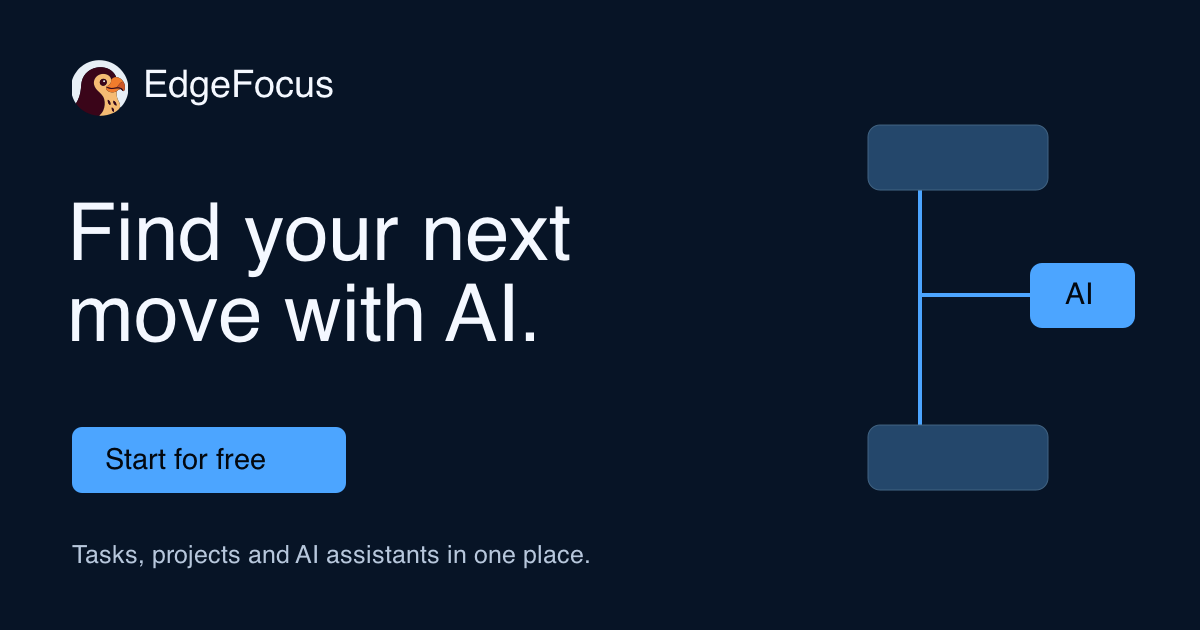
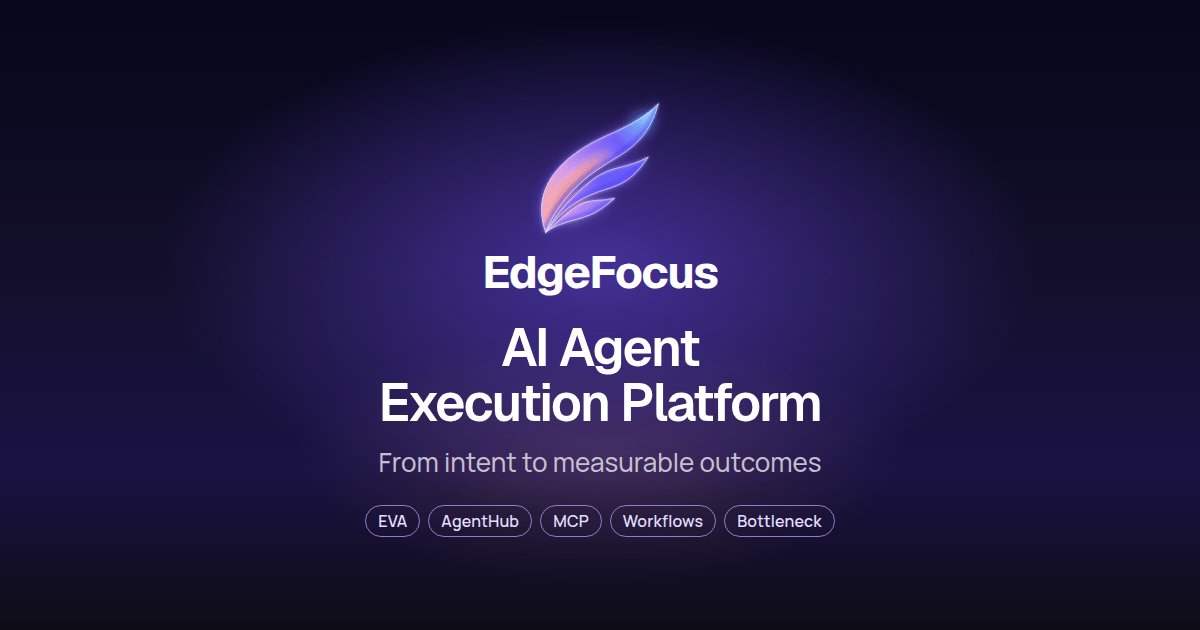
Align the landing with the Aurora Wing mark and live positioning. (#1)
The homepage title, description, and hero now match the app, including the Russian lines. Favicons, the header mark, and the 1200x630 link image use the approved set, with absolute Open Graph and Twitter tags.

diff --git a/translations.js b/translations.js
@@ -7,11 +7,12 @@ window.EDGEFOCUS_COPY = {
     "navFaq": "Questions",
     "login": "Log in",
     "signup": "Start for free",
-    "metaTitle": "EdgeFocus — A clear next move, with AI",
-    "metaDescription": "Bring your tasks, projects and AI assistants together. Organize with Falco, ask EVA and find what is blocking progress. Start with the Free plan.",
+    "metaTitle": "EdgeFocus: AI Agent Execution Platform for Teams",
+    "metaDescription": "Connect AI agents to your tasks, CRM and workflows via MCP. EVA, automation and bottleneck analysis turn intent into measurable outcomes.",
+    "ogImageAlt": "EdgeFocus Aurora Wing. AI Agent Execution Platform. From intent to measurable outcomes.",
     "heroAudience": "For founders, team leads and independent work",
-    "heroTitle": "Find your next move with AI.",
-    "heroDescription": "Your tasks, projects and AI assistants in one place. Let Falco help organize the incoming work, ask EVA about your priorities, and see what is blocking progress.",
+    "heroTitle": "From intent to measurable outcomes",
+    "heroDescription": "Connect AI agents to your tasks, CRM and workflows via MCP. EVA, automation and bottleneck analysis turn intent into measurable outcomes.",
     "heroSecondary": "See how it works",
     "heroNote": "Free plan · No card required to register",
     "heroRetro": "Take a trip to 1998 →",
@@ -110,11 +111,12 @@ window.EDGEFOCUS_COPY = {
     "navFaq": "Вопросы",
     "login": "Войти",
     "signup": "Начать бесплатно",
-    "metaTitle": "EdgeFocus — Ясный следующий шаг с AI",
-    "metaDescription": "Соберите задачи, проекты и AI-помощников в одном месте. Разбирайте входящие с Falco, задавайте вопросы EVA и находите, что мешает результату. Начните с тарифа Free.",
+    "metaTitle": "EdgeFocus: платформа исполнения для ИИ-агентов и команд",
+    "metaDescription": "Подключите ИИ-агентов к задачам, CRM и процессам через MCP. EVA, автоматизация и поиск узкого места превращают намерение в измеримый результат.",
+    "ogImageAlt": "EdgeFocus, Aurora Wing. Платформа исполнения для ИИ-агентов. От намерения к измеримому результату.",
     "heroAudience": "Для предпринимателей, руководителей и самостоятельной работы",
-    "heroTitle": "Найдите следующий шаг с AI.",
-    "heroDescription": "Задачи, проекты и AI-помощники в одном месте. Разбирайте входящие с Falco, задавайте EVA вопросы о приоритетах и находите то, что мешает двигаться дальше.",
+    "heroTitle": "От намерения к измеримому результату",
+    "heroDescription": "Подключите ИИ-агентов к задачам, CRM и процессам через MCP. EVA, автоматизация и поиск узкого места превращают намерение в измеримый результат.",
     "heroSecondary": "Посмотреть, как работает",
     "heroNote": "Тариф Free · Для регистрации карта не нужна",
     "heroRetro": "Заглянуть в 1998-й →",
@@ -128,7 +130,7 @@ window.EDGEFOCUS_COPY = {
     "demoItem3": "Согласовать предложение",
     "demoCount": "Три задачи. Одна зависимость.",
     "demoPrompt": "EVA, что мешает запуску?",
-    "demoAnswer": "Предложение нужно согласовать до публикации сайта и запуска кампании. Первый шаг — получить это решение.",
+    "demoAnswer": "Предложение нужно согласовать до публикации сайта и запуска кампании. Первый шаг: получить это решение.",
     "demoNextLabel": "Следующий шаг",
     "demoNext": "Отправить предложение на согласование",
     "demoBlocked": "Ждёт согласования",
@@ -165,7 +167,7 @@ window.EDGEFOCUS_COPY = {
     "proPrice": "790 ₽",
     "proPeriod": "в месяц",
     "proBody": "Для регулярной работы с AI-помощниками.",
-    "proDetail": "Платные тарифы дают больше лимитов AI. Выбор тарифа — в приложении.",
+    "proDetail": "Платные тарифы дают больше лимитов AI. Выбор тарифа в приложении.",
     "proAction": "Сравнить тарифы в приложении",
     "pricingNote": "Указана помесячная стоимость. Другие тарифы и годовая оплата доступны в приложении.",
     "teamTitle": "Работаете командой?",
@@ -177,7 +179,7 @@ window.EDGEFOCUS_COPY = {
     "faq2q": "Нужно сразу переносить все дела?",
     "faq2a": "Нет. Начните с одного проекта и нескольких реальных задач. Добавляйте остальное, когда поймёте, что подход вам подходит.",
     "faq3q": "Что умеют AI-помощники?",
-    "faq3a": "Falco помогает разбирать входящие. EVA — анализировать и обсуждать контекст рабочего пространства. Использование AI ограничено тарифом; проверяйте предложения перед применением.",
+    "faq3a": "Falco помогает разбирать входящие. EVA помогает анализировать и обсуждать контекст рабочего пространства. Использование AI ограничено тарифом; проверяйте предложения перед применением.",
     "faq4q": "Можно подключить свои инструменты?",
     "faq4a": "В EdgeFocus есть REST API и API-навык для AI-помощников. Вы настраиваете доступ для выбранных инструментов.",
     "faq5q": "Где узнать об обработке данных?",
@@ -213,11 +215,12 @@ window.EDGEFOCUS_COPY = {
     "navFaq": "الأسئلة",
     "login": "تسجيل الدخول",
     "signup": "ابدأ مجانًا",
-    "metaTitle": "EdgeFocus — خطوة تالية واضحة بمساعدة الذكاء الاصطناعي",
-    "metaDescription": "اجمع مهامك ومشاريعك ومساعدي الذكاء الاصطناعي في مكان واحد. نظّم العمل الوارد بمساعدة Falco، واسأل EVA، واكتشف ما يعوق التقدم. ابدأ بخطة Free.",
+    "metaTitle": "EdgeFocus: منصة تنفيذ وكلاء الذكاء الاصطناعي للفرق",
+    "metaDescription": "اربط وكلاء الذكاء الاصطناعي بمهامك وإدارة علاقات العملاء وسير العمل عبر MCP. تحوّل EVA والأتمتة وتحليل الاختناقات النية إلى نتائج قابلة للقياس.",
+    "ogImageAlt": "EdgeFocus، جناح أورورا. منصة تنفيذ وكلاء الذكاء الاصطناعي. من النية إلى نتائج قابلة للقياس.",
     "heroAudience": "للمؤسسين وقادة الفرق ومن يعملون بشكل مستقل",
-    "heroTitle": "حدّد خطوتك التالية مع AI.",
-    "heroDescription": "مهامك ومشاريعك ومساعدو الذكاء الاصطناعي في مكان واحد. دع Falco يساعدك في تنظيم العمل الوارد، واسأل EVA عن أولوياتك، وتعرّف على ما يعوق التقدم.",
+    "heroTitle": "من النية إلى نتائج قابلة للقياس",
+    "heroDescription": "اربط وكلاء الذكاء الاصطناعي بمهامك وإدارة علاقات العملاء وسير العمل عبر MCP. تحوّل EVA والأتمتة وتحليل الاختناقات النية إلى نتائج قابلة للقياس.",
     "heroSecondary": "تعرّف على آلية العمل",
     "heroNote": "خطة Free · لا حاجة إلى بطاقة دفع للتسجيل",
     "heroRetro": "رحلة إلى عام 1998 ←",
@@ -316,11 +319,12 @@ window.EDGEFOCUS_COPY = {
     "navFaq": "常见问题",
     "login": "登录",
     "signup": "免费开始",
-    "metaTitle": "EdgeFocus — 借助 AI，明确下一步",
-    "metaDescription": "将任务、项目和 AI 助手汇聚在一处。借助 Falco 整理待处理事项，向 EVA 提问，找出阻碍进展的因素。从 Free 套餐开始。",
+    "metaTitle": "EdgeFocus: 面向团队的 AI 智能体执行平台",
+    "metaDescription": "通过 MCP 将 AI 智能体连接到任务、CRM 和工作流。EVA、自动化与瓶颈分析将意图转化为可衡量的结果。",
+    "ogImageAlt": "EdgeFocus Aurora Wing。AI 智能体执行平台。从意图到可衡量的结果。",
     "heroAudience": "适合创业者、团队负责人和独立工作者",
-    "heroTitle": "借助 AI，找到下一步。",
-    "heroDescription": "任务、项目和 AI 助手，尽在一处。让 Falco 帮你整理待处理事项，向 EVA 询问优先事项，找出阻碍进展的因素。",
+    "heroTitle": "从意图到可衡量的结果",
+    "heroDescription": "通过 MCP 将 AI 智能体连接到任务、CRM 和工作流。EVA、自动化与瓶颈分析将意图转化为可衡量的结果。",
     "heroSecondary": "了解工作方式",
     "heroNote": "Free 套餐 · 注册无需银行卡",
     "heroRetro": "穿越到 1998 年 →",

diff --git a/index.html b/index.html
@@ -2,8 +2,8 @@
 <html lang="en" dir="ltr">
 <head>
 <meta charset="utf-8"><meta name="viewport" content="width=device-width, initial-scale=1">
-<title data-i18n="metaTitle">EdgeFocus — A clear next move, with AI</title>
-<meta name="description" data-i18n-content="metaDescription" content="Bring your tasks, projects and AI assistants together. Organize with Falco, ask EVA and find what is blocking progress. Start with the Free plan.">
+<title data-i18n="metaTitle">EdgeFocus: AI Agent Execution Platform for Teams</title>
+<meta name="description" data-i18n-content="metaDescription" content="Connect AI agents to your tasks, CRM and workflows via MCP. EVA, automation and bottleneck analysis turn intent into measurable outcomes.">
 <meta name="theme-color" content="#071426"><meta name="referrer" content="strict-origin-when-cross-origin">
 <link rel="canonical" href="https://landing.edgefocus.ru/">
 <link rel="alternate" hreflang="en" href="https://landing.edgefocus.ru/">
@@ -11,15 +11,29 @@
 <link rel="alternate" hreflang="ar" href="https://landing.edgefocus.ru/?lang=ar">
 <link rel="alternate" hreflang="zh" href="https://landing.edgefocus.ru/?lang=zh">
 <link rel="alternate" hreflang="x-default" href="https://landing.edgefocus.ru/">
-<meta property="og:type" content="website"><meta property="og:url" content="https://landing.edgefocus.ru/">
-<meta property="og:title" data-i18n-content="metaTitle" content="EdgeFocus — A clear next move, with AI">
-<meta property="og:description" data-i18n-content="metaDescription" content="Bring your tasks, projects and AI assistants together. Organize with Falco, ask EVA and find what is blocking progress. Start with the Free plan.">
+<meta property="og:type" content="website"><meta property="og:site_name" content="EdgeFocus"><meta property="og:url" content="https://landing.edgefocus.ru/">
+<meta property="og:title" data-i18n-content="metaTitle" content="EdgeFocus: AI Agent Execution Platform for Teams">
+<meta property="og:description" data-i18n-content="metaDescription" content="Connect AI agents to your tasks, CRM and workflows via MCP. EVA, automation and bottleneck analysis turn intent into measurable outcomes.">
 <meta property="og:image" content="https://landing.edgefocus.ru/assets/social.png">
+<meta property="og:image:type" content="image/png">
+<meta property="og:image:width" content="1200"><meta property="og:image:height" content="630">
+<meta property="og:image:alt" data-i18n-content="ogImageAlt" content="EdgeFocus Aurora Wing. AI Agent Execution Platform. From intent to measurable outcomes.">
 <meta name="twitter:card" content="summary_large_image">
-<link rel="icon" type="image/svg+xml" href="assets/edge-logo.svg">
+<meta name="twitter:title" data-i18n-content="metaTitle" content="EdgeFocus: AI Agent Execution Platform for Teams">
+<meta name="twitter:description" data-i18n-content="metaDescription" content="Connect AI agents to your tasks, CRM and workflows via MCP. EVA, automation and bottleneck analysis turn intent into measurable outcomes.">
+<meta name="twitter:image" content="https://landing.edgefocus.ru/assets/social.png">
+<meta name="twitter:image:alt" data-i18n-content="ogImageAlt" content="EdgeFocus Aurora Wing. AI Agent Execution Platform. From intent to measurable outcomes.">
+<link rel="icon" href="assets/favicon.svg" type="image/svg+xml">
+<link rel="icon" href="assets/icons/favicon-32x32.png" sizes="32x32" type="image/png">
+<link rel="icon" href="assets/icons/favicon-16x16.png" sizes="16x16" type="image/png">
+<link rel="alternate icon" href="favicon.ico" sizes="16x16 32x32 48x48">
+<link rel="apple-touch-icon" href="assets/icons/apple-touch-icon-180x180.png">
+<link rel="mask-icon" href="assets/icons/safari-pinned-tab.svg" color="#6E4CF2">
+<meta name="msapplication-TileImage" content="assets/icons/mstile-150x150.png">
+<meta name="msapplication-TileColor" content="#0B0B10">
 <link rel="preload" href="assets/fonts/geist-latin.woff2" as="font" type="font/woff2" crossorigin>
 <link rel="stylesheet" href="locale-fonts.css"><link rel="stylesheet" href="styles.css?v=retro-20261021">
-<script defer src="translations.js?v=portfolio-20261110"></script><script defer src="script.js?v=portfolio-20261110"></script><script defer src="analytics.js"></script><script defer src="funnel.js"></script>
+<script defer src="translations.js?v=aurora-20261126"></script><script defer src="script.js?v=portfolio-20261110"></script><script defer src="analytics.js"></script><script defer src="funnel.js"></script>
 </head>
 <body id="top">
 <a class="skip-link" href="#main" data-i18n="skip">Skip to content</a>
@@ -27,7 +41,7 @@
 <nav class="desktop-nav" aria-label="Main"><a href="#how-it-works"><span data-i18n="navHow">How it works</span></a><a href="#new"><span data-i18n="navLaunch">EVA, integrations and partners</span></a><a href="#pricing"><span data-i18n="navPlans">Plans</span></a><a href="#faq"><span data-i18n="navFaq">Questions</span></a></nav>
 <div class="header-actions"><label class="sr-only" for="language-select" data-i18n="languageLabel">Language</label><select id="language-select" aria-label="Language" data-i18n-aria="languageLabel"><option value="en">EN</option><option value="ru">RU</option><option value="ar">العربية</option><option value="zh">中文</option></select><a class="login-link" href="https://edgefocus.ru/login" data-cta="login" data-location="nav"><span data-i18n="login">Log in</span></a><a class="button button-primary" href="https://edgefocus.ru/register" data-cta="signup" data-location="nav"><span data-i18n="signup">Start for free</span></a></div></div></header>
 <main id="main">
-<section class="hero"><div class="container hero-grid"><div class="hero-copy"><p class="audience" data-i18n="heroAudience">For founders, team leads and independent work</p><h1 data-i18n="heroTitle">Find your next move with AI.</h1><p class="hero-description" data-i18n="heroDescription">Your tasks, projects and AI assistants in one place. Let Falco help organize the incoming work, ask EVA about your priorities, and see what is blocking progress.</p><div class="hero-actions"><a class="button button-primary" href="https://edgefocus.ru/register" data-cta="signup" data-location="hero"><span data-i18n="signup">Start for free</span></a><a class="button button-secondary" href="#demo" data-cta="demo" data-location="hero"><span data-i18n="heroSecondary">See how it works</span></a></div><p class="signup-note" data-i18n="heroNote">Free plan · No card required to register</p><a class="retro-discovery" data-retro-discovery href="/retro/?utm_source=edgefocus&amp;utm_medium=website&amp;utm_campaign=edgefocus-retro-202610" data-i18n="heroRetro">Take a trip to 1998 →</a><p class="hero-first" data-i18n="heroFirst">Start with one real project. Add the rest when you need it.</p></div>
+<section class="hero"><div class="container hero-grid"><div class="hero-copy"><p class="audience" data-i18n="heroAudience">For founders, team leads and independent work</p><h1 data-i18n="heroTitle">From intent to measurable outcomes</h1><p class="hero-description" data-i18n="heroDescription">Connect AI agents to your tasks, CRM and workflows via MCP. EVA, automation and bottleneck analysis turn intent into measurable outcomes.</p><div class="hero-actions"><a class="button button-primary" href="https://edgefocus.ru/register" data-cta="signup" data-location="hero"><span data-i18n="signup">Start for free</span></a><a class="button button-secondary" href="#demo" data-cta="demo" data-location="hero"><span data-i18n="heroSecondary">See how it works</span></a></div><p class="signup-note" data-i18n="heroNote">Free plan · No card required to register</p><a class="retro-discovery" data-retro-discovery href="/retro/?utm_source=edgefocus&amp;utm_medium=website&amp;utm_campaign=edgefocus-retro-202610" data-i18n="heroRetro">Take a trip to 1998 →</a><p class="hero-first" data-i18n="heroFirst">Start with one real project. Add the rest when you need it.</p></div>
 <div class="demo-shell" id="demo"><div class="demo-heading"><span class="demo-live-dot" aria-hidden="true"></span><span data-i18n="demoLabel">An example of the workflow</span><span class="demo-brand" aria-hidden="true">EdgeFocus</span></div><div class="demo-workspace">
 <div class="demo-project"><span class="project-icon" aria-hidden="true">↗</span><strong data-i18n="demoProject">Website launch</strong></div><h2 data-i18n="demoTitle">A launch is waiting. What comes first?</h2><div class="task-list"><div class="task-row"><span class="task-check" aria-hidden="true"></span><span data-i18n="demoItem1">Publish the website</span><span class="dependency-symbol" aria-hidden="true">↳</span></div><div class="task-row"><span class="task-check" aria-hidden="true"></span><span data-i18n="demoItem2">Start the campaign</span><span class="dependency-symbol" aria-hidden="true">↳</span></div><div class="task-row task-blocker"><span class="task-check" aria-hidden="true"></span><span data-i18n="demoItem3">Get the offer approved</span><span class="blocker-dot" aria-hidden="true"></span></div></div><p class="demo-count" data-i18n="demoCount">Three tasks. One dependency.</p>
 <div class="ai-answer"><div class="ai-avatar" aria-hidden="true">E</div><div><h3 data-i18n="demoPrompt">EVA, what is holding up the launch?</h3><p data-i18n="demoAnswer">The offer needs approval before the website and campaign can go live. Start by asking for that decision.</p></div></div><div class="next-move"><span class="next-label" data-i18n="demoNextLabel">Your next move</span><strong data-i18n="demoNext">Send the offer for approval</strong><span id="demo-status" class="status-badge" data-i18n="demoBlocked">Waiting for approval</span></div>

diff --git a/ru/partners/index.html b/ru/partners/index.html
@@ -16,9 +16,20 @@
 <meta property="og:url" content="https://landing.edgefocus.ru/ru/partners/">
 <meta property="og:locale" content="ru_RU">
 <meta property="og:image" content="https://landing.edgefocus.ru/assets/social.png">
-<meta property="og:image:alt" content="EdgeFocus">
+<meta property="og:image:type" content="image/png">
+<meta property="og:image:width" content="1200">
+<meta property="og:image:height" content="630">
+<meta property="og:image:alt" content="EdgeFocus, Aurora Wing. Платформа исполнения для ИИ-агентов. От намерения к измеримому результату.">
 <meta name="twitter:card" content="summary_large_image">
-<link rel="icon" href="/assets/edge-logo.svg" type="image/svg+xml">
+<meta name="twitter:image" content="https://landing.edgefocus.ru/assets/social.png">
+<link rel="icon" href="/assets/favicon.svg" type="image/svg+xml">
+<link rel="icon" href="/assets/icons/favicon-32x32.png" sizes="32x32" type="image/png">
+<link rel="icon" href="/assets/icons/favicon-16x16.png" sizes="16x16" type="image/png">
+<link rel="alternate icon" href="/favicon.ico" sizes="16x16 32x32 48x48">
+<link rel="apple-touch-icon" href="/assets/icons/apple-touch-icon-180x180.png">
+<link rel="mask-icon" href="/assets/icons/safari-pinned-tab.svg" color="#6E4CF2">
+<meta name="msapplication-TileImage" content="/assets/icons/mstile-150x150.png">
+<meta name="msapplication-TileColor" content="#0B0B10">
 <link rel="stylesheet" href="/launch.css">
 <link rel="stylesheet" href="/partners.css">
 <script src="/analytics.js" defer></script>

diff --git a/ru/developers/index.html b/ru/developers/index.html
@@ -16,9 +16,20 @@
 <meta property="og:url" content="https://landing.edgefocus.ru/ru/developers/">
 <meta property="og:locale" content="ru_RU">
 <meta property="og:image" content="https://landing.edgefocus.ru/assets/social.png">
-<meta property="og:image:alt" content="EdgeFocus">
+<meta property="og:image:type" content="image/png">
+<meta property="og:image:width" content="1200">
+<meta property="og:image:height" content="630">
+<meta property="og:image:alt" content="EdgeFocus, Aurora Wing. Платформа исполнения для ИИ-агентов. От намерения к измеримому результату.">
 <meta name="twitter:card" content="summary_large_image">
-<link rel="icon" href="/assets/edge-logo.svg" type="image/svg+xml">
+<meta name="twitter:image" content="https://landing.edgefocus.ru/assets/social.png">
+<link rel="icon" href="/assets/favicon.svg" type="image/svg+xml">
+<link rel="icon" href="/assets/icons/favicon-32x32.png" sizes="32x32" type="image/png">
+<link rel="icon" href="/assets/icons/favicon-16x16.png" sizes="16x16" type="image/png">
+<link rel="alternate icon" href="/favicon.ico" sizes="16x16 32x32 48x48">
+<link rel="apple-touch-icon" href="/assets/icons/apple-touch-icon-180x180.png">
+<link rel="mask-icon" href="/assets/icons/safari-pinned-tab.svg" color="#6E4CF2">
+<meta name="msapplication-TileImage" content="/assets/icons/mstile-150x150.png">
+<meta name="msapplication-TileColor" content="#0B0B10">
 <link rel="stylesheet" href="/launch.css">
 <script src="/analytics.js" defer></script>
 <script src="/funnel.js" defer></script>

diff --git a/ru/eva/index.html b/ru/eva/index.html
@@ -16,9 +16,20 @@
 <meta property="og:url" content="https://landing.edgefocus.ru/ru/eva/">
 <meta property="og:locale" content="ru_RU">
 <meta property="og:image" content="https://landing.edgefocus.ru/assets/social.png">
-<meta property="og:image:alt" content="EdgeFocus">
+<meta property="og:image:type" content="image/png">
+<meta property="og:image:width" content="1200">
+<meta property="og:image:height" content="630">
+<meta property="og:image:alt" content="EdgeFocus, Aurora Wing. Платформа исполнения для ИИ-агентов. От намерения к измеримому результату.">
 <meta name="twitter:card" content="summary_large_image">
-<link rel="icon" href="/assets/edge-logo.svg" type="image/svg+xml">
+<meta name="twitter:image" content="https://landing.edgefocus.ru/assets/social.png">
+<link rel="icon" href="/assets/favicon.svg" type="image/svg+xml">
+<link rel="icon" href="/assets/icons/favicon-32x32.png" sizes="32x32" type="image/png">
+<link rel="icon" href="/assets/icons/favicon-16x16.png" sizes="16x16" type="image/png">
+<link rel="alternate icon" href="/favicon.ico" sizes="16x16 32x32 48x48">
+<link rel="apple-touch-icon" href="/assets/icons/apple-touch-icon-180x180.png">
+<link rel="mask-icon" href="/assets/icons/safari-pinned-tab.svg" color="#6E4CF2">
+<meta name="msapplication-TileImage" content="/assets/icons/mstile-150x150.png">
+<meta name="msapplication-TileColor" content="#0B0B10">
 <link rel="stylesheet" href="/launch.css">
 <script src="/analytics.js" defer></script>
 <script src="/funnel.js" defer></script>

diff --git a/en/partners/index.html b/en/partners/index.html
@@ -16,9 +16,20 @@
 <meta property="og:url" content="https://landing.edgefocus.ru/en/partners/">
 <meta property="og:locale" content="en_US">
 <meta property="og:image" content="https://landing.edgefocus.ru/assets/social.png">
-<meta property="og:image:alt" content="EdgeFocus">
+<meta property="og:image:type" content="image/png">
+<meta property="og:image:width" content="1200">
+<meta property="og:image:height" content="630">
+<meta property="og:image:alt" content="EdgeFocus Aurora Wing. AI Agent Execution Platform. From intent to measurable outcomes.">
 <meta name="twitter:card" content="summary_large_image">
-<link rel="icon" href="/assets/edge-logo.svg" type="image/svg+xml">
+<meta name="twitter:image" content="https://landing.edgefocus.ru/assets/social.png">
+<link rel="icon" href="/assets/favicon.svg" type="image/svg+xml">
+<link rel="icon" href="/assets/icons/favicon-32x32.png" sizes="32x32" type="image/png">
+<link rel="icon" href="/assets/icons/favicon-16x16.png" sizes="16x16" type="image/png">
+<link rel="alternate icon" href="/favicon.ico" sizes="16x16 32x32 48x48">
+<link rel="apple-touch-icon" href="/assets/icons/apple-touch-icon-180x180.png">
+<link rel="mask-icon" href="/assets/icons/safari-pinned-tab.svg" color="#6E4CF2">
+<meta name="msapplication-TileImage" content="/assets/icons/mstile-150x150.png">
+<meta name="msapplication-TileColor" content="#0B0B10">
 <link rel="stylesheet" href="/launch.css">
 <link rel="stylesheet" href="/partners.css">
 <script src="/analytics.js" defer></script>

diff --git a/en/developers/index.html b/en/developers/index.html
@@ -16,9 +16,20 @@
 <meta property="og:url" content="https://landing.edgefocus.ru/en/developers/">
 <meta property="og:locale" content="en_US">
 <meta property="og:image" content="https://landing.edgefocus.ru/assets/social.png">
-<meta property="og:image:alt" content="EdgeFocus">
+<meta property="og:image:type" content="image/png">
+<meta property="og:image:width" content="1200">
+<meta property="og:image:height" content="630">
+<meta property="og:image:alt" content="EdgeFocus Aurora Wing. AI Agent Execution Platform. From intent to measurable outcomes.">
 <meta name="twitter:card" content="summary_large_image">
-<link rel="icon" href="/assets/edge-logo.svg" type="image/svg+xml">
+<meta name="twitter:image" content="https://landing.edgefocus.ru/assets/social.png">
+<link rel="icon" href="/assets/favicon.svg" type="image/svg+xml">
+<link rel="icon" href="/assets/icons/favicon-32x32.png" sizes="32x32" type="image/png">
+<link rel="icon" href="/assets/icons/favicon-16x16.png" sizes="16x16" type="image/png">
+<link rel="alternate icon" href="/favicon.ico" sizes="16x16 32x32 48x48">
+<link rel="apple-touch-icon" href="/assets/icons/apple-touch-icon-180x180.png">
+<link rel="mask-icon" href="/assets/icons/safari-pinned-tab.svg" color="#6E4CF2">
+<meta name="msapplication-TileImage" content="/assets/icons/mstile-150x150.png">
+<meta name="msapplication-TileColor" content="#0B0B10">
 <link rel="stylesheet" href="/launch.css">
 <script src="/analytics.js" defer></script>
 <script src="/funnel.js" defer></script>

diff --git a/en/eva/index.html b/en/eva/index.html
@@ -16,9 +16,20 @@
 <meta property="og:url" content="https://landing.edgefocus.ru/en/eva/">
 <meta property="og:locale" content="en_US">
 <meta property="og:image" content="https://landing.edgefocus.ru/assets/social.png">
-<meta property="og:image:alt" content="EdgeFocus">
+<meta property="og:image:type" content="image/png">
+<meta property="og:image:width" content="1200">
+<meta property="og:image:height" content="630">
+<meta property="og:image:alt" content="EdgeFocus Aurora Wing. AI Agent Execution Platform. From intent to measurable outcomes.">
 <meta name="twitter:card" content="summary_large_image">
-<link rel="icon" href="/assets/edge-logo.svg" type="image/svg+xml">
+<meta name="twitter:image" content="https://landing.edgefocus.ru/assets/social.png">
+<link rel="icon" href="/assets/favicon.svg" type="image/svg+xml">
+<link rel="icon" href="/assets/icons/favicon-32x32.png" sizes="32x32" type="image/png">
+<link rel="icon" href="/assets/icons/favicon-16x16.png" sizes="16x16" type="image/png">
+<link rel="alternate icon" href="/favicon.ico" sizes="16x16 32x32 48x48">
+<link rel="apple-touch-icon" href="/assets/icons/apple-touch-icon-180x180.png">
+<link rel="mask-icon" href="/assets/icons/safari-pinned-tab.svg" color="#6E4CF2">
+<meta name="msapplication-TileImage" content="/assets/icons/mstile-150x150.png">
+<meta name="msapplication-TileColor" content="#0B0B10">
 <link rel="stylesheet" href="/launch.css">
 <script src="/analytics.js" defer></script>
 <script src="/funnel.js" defer></script>
